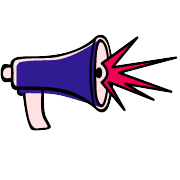
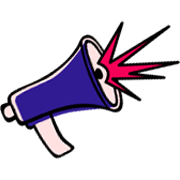
Fix minor layout errors

Changed region(s): [[0.0, 0.1111, 1.0, 0.8889]]

diff --git a/src/services/Lyrics.tsx b/src/services/Lyrics.tsx
@@ -20,7 +20,7 @@ export const Lyrics = ({ activeDecade }) => (
         sx={{
           height: '455px',
           borderRadius: '64.75px',
-          objectFit: 'fill',
+          objectPosition: 'top',
         }}
       />
     </Card>
